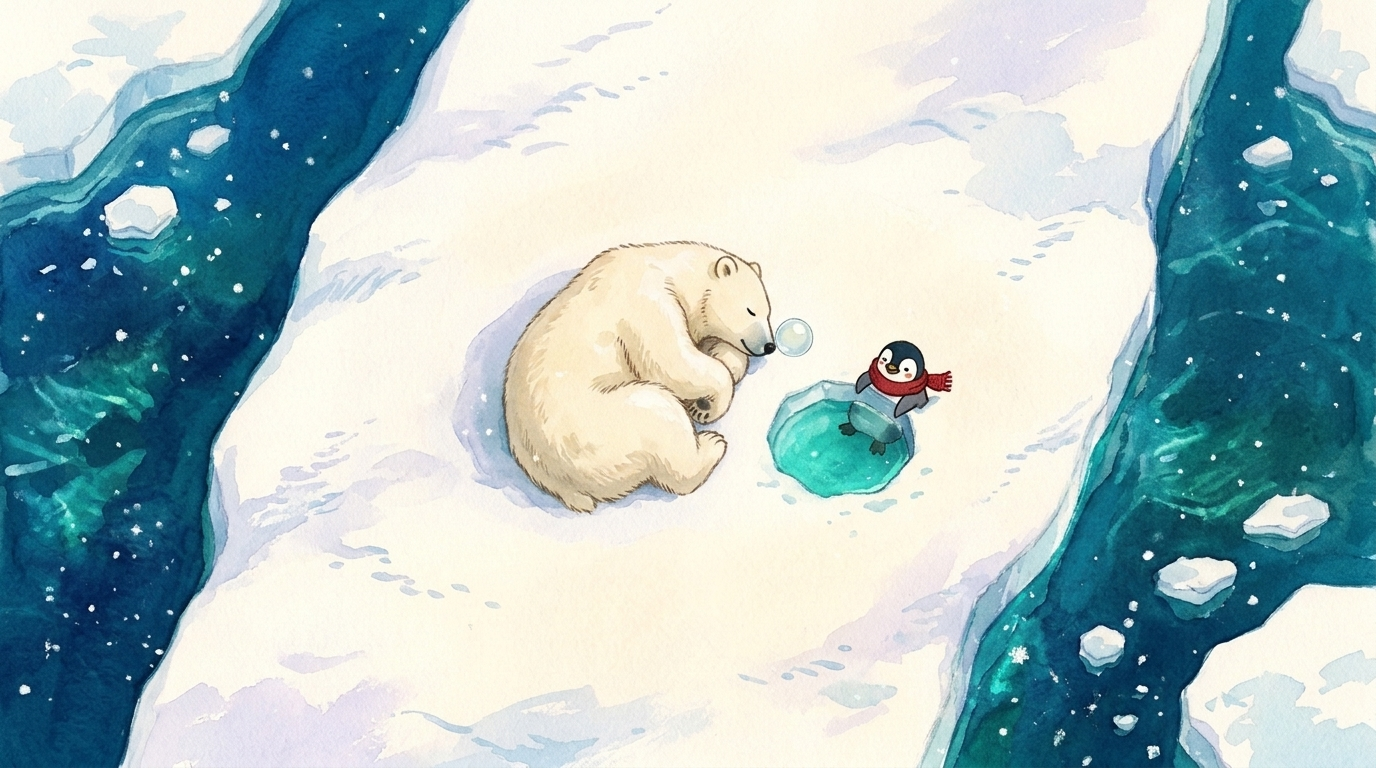
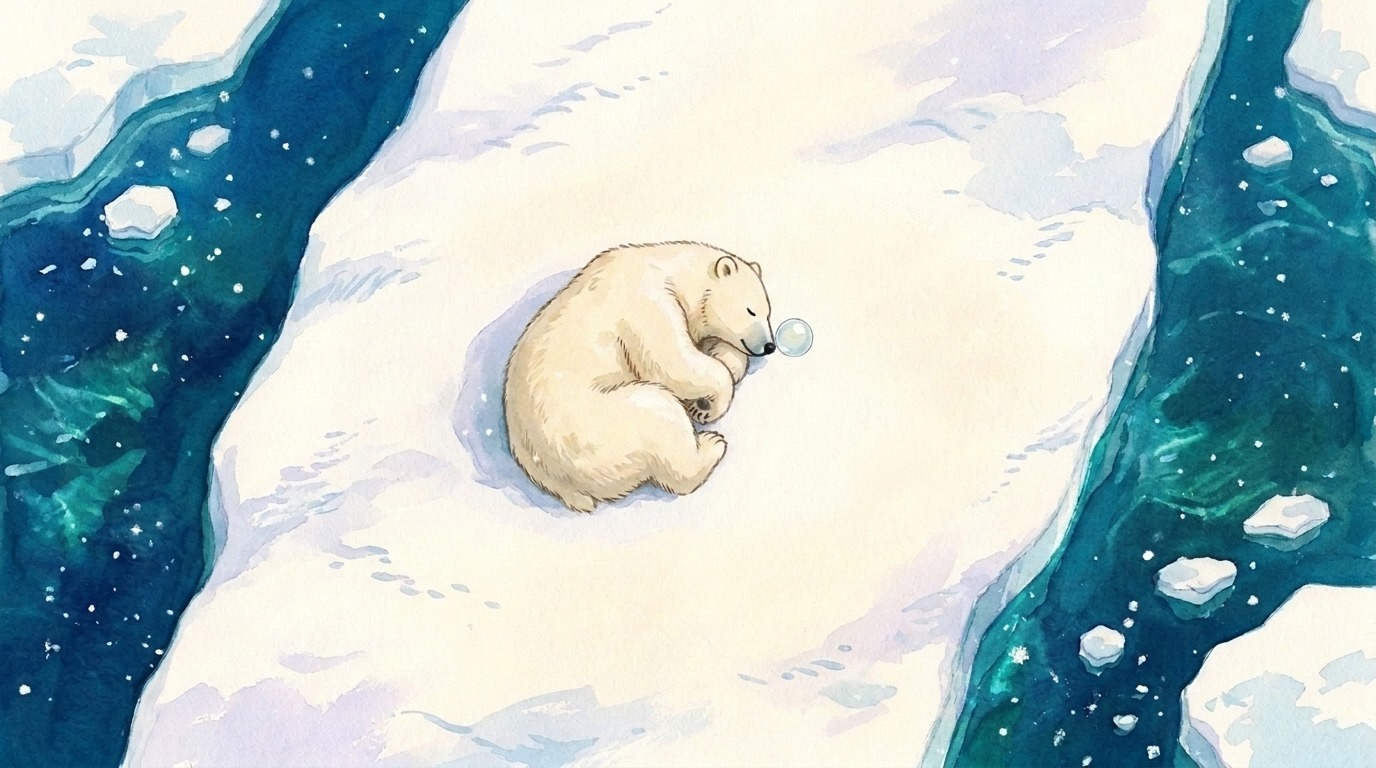
refactor(arctic): remove ice hole from shader and penguin/hole from thumbnail

Changed region(s): [[0.5312, 0.4375, 0.6875, 0.6875]]

diff --git a/web/themes/arctic/arctic-shader.js b/web/themes/arctic/arctic-shader.js
@@ -23,7 +23,6 @@ uniform sampler2D uFB;
 uniform sampler2D uNoise;
 uniform sampler2D uActorsTex;
 uniform sampler2D uActorsShadowTex;
-uniform sampler2D uMoonTex;
 uniform sampler2D uWaterTex;
 uniform sampler2D uSnowTex;
 uniform sampler2D uFloesTex;
@@ -41,10 +40,7 @@ uniform float uEdge;         // shoreline ice-edge roughness
 uniform float uSeed;
 uniform float uSunset;       // 0..1 Polar Alpenglow sunset
 uniform float uNight;        // 0..1 Polar Aurora Night
-uniform float uMoonPhase;    // 0=New, 0.25=First Qtr, 0.5=Full, 0.75=Last Qtr
 
-uniform vec4 uHole;          // xy = ice hole center CSS px, zw = radii (rx, ry); z <= 0 hides hole
-uniform vec2 uHoleRipple;    // x = age since splash (sec), y = splash strength (0..1)
 uniform vec4 uActorsRect;    // xy = top-left CSS px, zw = size CSS px (z <= 0 disables)
 
 uniform vec4 uWindA[4];
@@ -68,8 +64,6 @@ const vec3 D_ICE_SH      = vec3(0.505, 0.658, 0.802);
 const vec3 D_SEA_DEEP    = vec3(0.018, 0.195, 0.305);
 const vec3 D_SEA_VIRID   = vec3(0.095, 0.545, 0.535);
 const vec3 D_SEA_AQUA    = vec3(0.325, 0.768, 0.725);
-const vec3 D_HOLE_WATER  = vec3(0.155, 0.718, 0.682);
-const vec3 D_HOLE_DEEP   = vec3(0.048, 0.415, 0.495);
 const vec3 D_INK         = vec3(0.105, 0.238, 0.335);
 
 // Polar Alpenglow Sunset watercolor grading tones
@@ -81,8 +75,6 @@ const vec3 S_ICE_SH      = vec3(0.345, 0.398, 0.562);
 const vec3 S_SEA_DEEP    = vec3(0.045, 0.088, 0.202);
 const vec3 S_SEA_VIRID   = vec3(0.265, 0.315, 0.468);
 const vec3 S_SEA_AQUA    = vec3(0.525, 0.455, 0.598);
-const vec3 S_HOLE_WATER  = vec3(0.315, 0.382, 0.528);
-const vec3 S_HOLE_DEEP   = vec3(0.118, 0.162, 0.298);
 const vec3 S_INK         = vec3(0.152, 0.145, 0.272);
 
 // Arctic Night watercolor grading tones
@@ -94,8 +86,6 @@ const vec3 N_ICE_SH      = vec3(0.125, 0.268, 0.392);
 const vec3 N_SEA_DEEP    = vec3(0.015, 0.046, 0.102);
 const vec3 N_SEA_VIRID   = vec3(0.065, 0.228, 0.305);
 const vec3 N_SEA_AQUA    = vec3(0.145, 0.465, 0.545);
-const vec3 N_HOLE_WATER  = vec3(0.068, 0.218, 0.298);
-const vec3 N_HOLE_DEEP   = vec3(0.022, 0.075, 0.145);
 const vec3 N_INK         = vec3(0.042, 0.095, 0.165);
 
 float hash2(vec2 p) {
@@ -234,34 +224,12 @@ vec3 evalBrittleIceCracks(vec2 pCss, float sSurf, float wallThickness, float gra
   // Keep the sleeping Polar Bear's resting snow bed completely smooth
   float bearCalm = 1.0;
   if (uActorsRect.z > 1.0) {
-    vec2 bearCenter = uActorsRect.xy + vec2(0.37, 0.56) * uActorsRect.zw;
-    float dBear = length((pCss - bearCenter) / max(1.0, uActorsRect.z * 0.25));
+    vec2 bearCenter = uActorsRect.xy + vec2(0.50, 0.54) * uActorsRect.zw;
+    float dBear = length((pCss - bearCenter) / max(1.0, uActorsRect.z * 0.28));
     bearCalm = smoothstep(0.68, 1.32, dBear);
   }
 
-  // 1. Two tiny, understated hand-inked brittle hairline ticks tucked into corners of the carved ice hole
-  if (uHole.z > 1.0 && sSurf > 0.0) {
-    vec2 hRel = pCss - uHole.xy;
-    float maxR = max(uHole.z, uHole.w);
-    if (dot(hRel, hRel) < (maxR * 1.65) * (maxR * 1.65)) {
-      // Micro wobble for authentic dip-pen paper feel
-      vec2 pw = pCss + (texN(pCss, 0.065).rg - 0.5) * 1.1;
-      for (int k = 0; k < 2; k++) {
-        float fk = float(k);
-        float a0 = mix(-2.25, 0.58, fk);
-        vec2 dir = vec2(cos(a0), sin(a0));
-        vec2 pStart = uHole.xy + dir * (uHole.zw * 0.96);
-        float len1 = maxR * mix(0.24, 0.20, fk);
-        float len2 = maxR * mix(0.20, 0.16, fk);
-        vec2 pMid = pStart + vec2(cos(a0 + 0.16), sin(a0 + 0.16)) * len1;
-        vec2 pEnd = pMid   + vec2(cos(a0 - 0.24), sin(a0 - 0.24)) * len2;
-        accumCrackSeg(pw, pStart, pMid, 0.0, 0.55, 0.92, 0.28, 0.58, 0.24, grain, bestInk, bestWash);
-        accumCrackSeg(pw, pMid,   pEnd, 0.55, 1.0, 0.92, 0.28, 0.58, 0.24, grain, bestInk, bestWash);
-      }
-    }
-  }
-
-  // 2. Sparse brittle polyline shoreline calving cracks (ONLY evaluated within shoreline band!)
+  // Sparse brittle polyline shoreline calving cracks (ONLY evaluated within shoreline band!)
   if (sSurf > -wallThickness - 4.0 && sSurf < 155.0 && bearCalm > 0.02) {
     // Subtle hand-drawn dip-pen micro-wobble on textured watercolor paper (never clinical CAD lines!)
     vec2 pw = pCss + (texN(pCss, 0.058).rg - 0.5) * 1.25;
@@ -615,32 +583,6 @@ float evalSnowfall(vec2 pCss, float windT, float density) {
   return clamp(snow, 0.0, 0.85);
 }
 
-// Crisp reflected lunar disc inside the dark aquamarine ice hole at night
-vec3 evalHoleMoon(vec2 localUv, float night, float phase) {
-  if (night < 0.04) return vec3(0.0);
-  vec2 mPos = vec2(-0.16, -0.14);
-  float mRad = 0.30;
-  vec2 d = (localUv - mPos) / mRad;
-  float r2 = dot(d, d);
-  if (r2 > 1.8) return vec3(0.0);
-
-  float disc = 1.0 - smoothstep(0.92, 1.04, sqrt(r2));
-  float halo = exp(-r2 * 1.45) * 0.22;
-
-  float ang = (phase - 0.5) * TAU;
-  vec3 sunDir = normalize(vec3(sin(ang), 0.14, cos(ang)));
-  float nz = sqrt(max(0.0, 1.0 - min(r2, 1.0)));
-  vec3 nrm = normalize(vec3(d.x, -d.y, nz));
-  float lit = smoothstep(-0.08, 0.22, dot(nrm, sunDir));
-
-  vec2 texUv = d * 0.5 + 0.5;
-  float crater = texture(uMoonTex, clamp(texUv, 0.02, 0.98)).r;
-  vec3 moonCol = mix(vec3(0.84, 0.91, 0.98), vec3(1.0, 0.985, 0.93), 0.55) * (0.76 + 0.30 * crater);
-  vec3 glowCol = vec3(0.55, 0.76, 0.96);
-
-  return (moonCol * disc * (0.08 + 0.92 * lit) + glowCol * halo * (0.35 + 0.65 * lit)) * night;
-}
-
 void main() {
   vec2 pCss = vec2(gl_FragCoord.x, uRes.y - gl_FragCoord.y) / max(0.5, uDpr);
 
@@ -653,8 +595,6 @@ void main() {
   vec3 seaDeep   = mix(mix(D_SEA_DEEP,   S_SEA_DEEP,   uSunset), N_SEA_DEEP,   uNight);
   vec3 seaVirid  = mix(mix(D_SEA_VIRID,  S_SEA_VIRID,  uSunset), N_SEA_VIRID,  uNight);
   vec3 seaAqua   = mix(mix(D_SEA_AQUA,   S_SEA_AQUA,   uSunset), N_SEA_AQUA,   uNight);
-  vec3 holeWater = mix(mix(D_HOLE_WATER, S_HOLE_WATER, uSunset), N_HOLE_WATER, uNight);
-  vec3 holeDeep  = mix(mix(D_HOLE_DEEP,  S_HOLE_DEEP,  uSunset), N_HOLE_DEEP,  uNight);
   vec3 inkCol    = mix(mix(D_INK,        S_INK,        uSunset), N_INK,        uNight);
 
   // Organic multi-scale noise for jagged fractured ice shoreline & fine cold-press paper unity
@@ -838,65 +778,7 @@ void main() {
   col = mix(col, snowCol, snowMask);
   col = mix(col, inkCol, clamp(topInkLine * 0.52 + baseInkLine * 0.58, 0.0, 0.76));
 
-  // ---- 4. Hand-Painted Faceted Aquamarine Ice Hole (Penguin's Playground!) ----
-  if (uHole.z > 1.0 && sSurf > -4.0) {
-    vec2 hRel = pCss - uHole.xy;
-    vec2 hNorm = hRel / max(vec2(1.0), uHole.zw);
-    float hAng = atan(hNorm.y, hNorm.x);
-    float facet = 0.068 * cos(hAng * 5.0 + 0.6) + 0.042 * sin(hAng * 3.0 - 1.1)
-                + 0.024 * cos(hAng * 7.0 + uSeed) + (nBrush.r - 0.5) * 0.032;
-    float hDist = length(hNorm) + facet;
-
-    // Soft matte periwinkle watercolor collar shadow around the carved ice rim
-    float outerLip = smoothstep(1.36, 1.05, hDist) * smoothstep(0.96, 1.04, hDist);
-    float lipLight = dot(normalize(hNorm + vec2(1e-4)), LIGHT);
-    vec3 lipCol = mix(snowSh * 0.95, snowHi, 0.5 + 0.5 * lipLight);
-    col = mix(col, lipCol, outerLip * 0.60 * snowMask);
-
-    if (hDist < 1.08) {
-      float holeMask = 1.0 - smoothstep(0.98, 1.04, hDist);
-      vec2 innerNorm = (hRel - LIGHT * 6.5) / max(vec2(1.0), uHole.zw * 0.87);
-      float innerDist = length(innerNorm) + facet;
-      float waterMask = 1.0 - smoothstep(0.90, 0.99, innerDist);
-
-      // Real hand-painted watercolor water inside the ice hole, brightened to jewel aquamarine!
-      vec3 hFluid = evalOrganicFluid(hRel * 1.65, uTime * 1.05);
-      vec2 hUv = (hRel + hFluid.xy * 9.0 + vec2(uTime * 5.0, -uTime * 3.5)) / 320.0;
-      vec3 hPainted = texture(uWaterTex, hUv).rgb;
-      float hTone = clamp(hPainted.g * 1.45, 0.0, 1.0);
-      vec3 hw = mix(holeDeep, holeWater, smoothstep(0.05, 0.85, innerDist) * 0.58 + hTone * 0.45);
-      hw = mix(hw, mix(holeWater, snowHi, 0.34), smoothstep(0.72, 0.98, innerDist) * 0.44);
-      hw += auroraCol * 0.56;
-      hw += evalHoleMoon(innerNorm + hFluid.xy * 0.03, uNight, uMoonPhase);
-
-      // Gentle matte watercolor idle ripples + penguin splash rings
-      float idleWave = sin(innerDist * 16.0 - uTime * 2.1 + hFluid.z * 1.4) * 0.5 + 0.5;
-      float rippleRing = idleWave * 0.048 * (1.0 - innerDist * 0.45);
-      if (uHoleRipple.y > 0.01 && uHoleRipple.x >= 0.0 && uHoleRipple.x < 2.2) {
-        float rAge = uHoleRipple.x;
-        float rEnv = exp(-rAge * 1.95) * uHoleRipple.y;
-        float rad1 = rAge * 0.96;
-        float rad2 = max(0.0, (rAge - 0.18) * 0.92);
-        float ring1 = exp(-pow((innerDist - rad1) * 14.0, 2.0));
-        float ring2 = exp(-pow((innerDist - rad2) * 16.0, 2.0)) * 0.65;
-        rippleRing += (ring1 + ring2) * rEnv * 0.72;
-      }
-      hw = mix(hw, mix(vec3(0.86, 0.97, 0.96), vec3(0.98, 0.86, 0.88), uSunset), clamp(rippleRing, 0.0, 0.78));
-      hw *= 1.0 + paperTooth * 0.045;
-
-      // Stepped matte faceted beveled ice wall inside the hole
-      float bevelFacet = 1.0 - smoothstep(0.0, 0.11, abs(sin(hAng * 2.5 + 0.3)));
-      vec3 bevelCol = mix(iceWall * 1.04, iceSh * 1.02, 0.5 + 0.5 * lipLight) * (1.0 + paperTooth * 0.04);
-      bevelCol = mix(bevelCol, inkCol, bevelFacet * 0.28);
-      vec3 holeInterior = mix(bevelCol, hw, waterMask);
-
-      float rimInk = (1.0 - smoothstep(0.0, 0.048, abs(hDist - 0.99))) * (0.65 + 0.35 * nBrush.g);
-      col = mix(col, holeInterior, holeMask * snowMask);
-      col = mix(col, inkCol, rimInk * 0.58 * snowMask);
-    }
-  }
-
-  // ---- 5. Hand-Painted Studio Ghibli Sleeping Polar Bear & Red-Scarf Penguin ----
+  // ---- 4. Hand-Painted Studio Ghibli Sleeping Polar Bear ----
   if (uActorsRect.z > 1.0) {
     vec2 aUv = (pCss - uActorsRect.xy) / uActorsRect.zw;
     if (aUv.x >= 0.0 && aUv.x <= 1.0 && aUv.y >= 0.0 && aUv.y <= 1.0) {

diff --git a/web/themes/arctic/arctic-scene.js b/web/themes/arctic/arctic-scene.js
@@ -17,9 +17,8 @@ import {
   createPerfGovernor
 } from '../../core/field-engine.js';
 import { createHostBridge } from '../../core/host-bridge.js';
-import { resolveMoonConfig, createMoonSurfaceLoader } from '../../core/moon-phase.js';
 import { ARCTIC_FS } from './arctic-shader.js';
-import { createArcticActorsController, BEAR_NORM, HOLE_NORM } from './arctic-actors.js';
+import { createArcticActorsController, BEAR_NORM } from './arctic-actors.js';
 import { createWindRibbonSystem } from './arctic-wind.js';
 
 const DEFAULTS = {
@@ -74,7 +73,6 @@ function bindArcticUniforms(program) {
     uNoise: gl.getUniformLocation(program, 'uNoise'),
     uActorsTex: gl.getUniformLocation(program, 'uActorsTex'),
     uActorsShadowTex: gl.getUniformLocation(program, 'uActorsShadowTex'),
-    uMoonTex: gl.getUniformLocation(program, 'uMoonTex'),
     uWaterTex: gl.getUniformLocation(program, 'uWaterTex'),
     uSnowTex: gl.getUniformLocation(program, 'uSnowTex'),
     uFloesTex: gl.getUniformLocation(program, 'uFloesTex'),
@@ -91,9 +89,6 @@ function bindArcticUniforms(program) {
     uSeed: gl.getUniformLocation(program, 'uSeed'),
     uSunset: gl.getUniformLocation(program, 'uSunset'),
     uNight: gl.getUniformLocation(program, 'uNight'),
-    uMoonPhase: gl.getUniformLocation(program, 'uMoonPhase'),
-    uHole: gl.getUniformLocation(program, 'uHole'),
-    uHoleRipple: gl.getUniformLocation(program, 'uHoleRipple'),
     uActorsRect: gl.getUniformLocation(program, 'uActorsRect'),
     uWindA: gl.getUniformLocation(program, 'uWindA'),
     uWindB: gl.getUniformLocation(program, 'uWindB'),
@@ -160,16 +155,11 @@ const SCENE_SEED = 41.7;
 
 let simTime = 0, flowTime = 0, lastRaf = 0, lastDraw = 0;
 let sunsetMix = 0, nightMix = 0, moodInitialized = false;
-let moonCfg = { mode: 'full', date: '2000-08-15' };
-let moonPhase = 0.5;
 
 const actors = createArcticActorsController(gl, () => {
   if (paused) renderFrame(simTime, true);
 });
 const windRibbons = createWindRibbonSystem();
-const moonSurface = createMoonSurfaceLoader(gl, () => {
-  if (paused) renderFrame(simTime, false);
-});
 
 const onPaintReady = () => {
   if (paused) renderFrame(simTime, false);
@@ -183,8 +173,8 @@ function sampleSdfB(px, py) {
 }
 
 /**
- * Finds the widest, coziest open snow clearing on the ice shelf where BOTH the sleeping
- * Polar Bear AND the Penguin's ice hole sit cleanly on open snow away from desktop icons.
+ * Finds the widest, coziest open snow clearing on the ice shelf where the sleeping
+ * Polar Bear rests cleanly away from desktop icons.
  */
 function relocateComedyStage(snap = false) {
   if (!sdfB) return;
@@ -197,14 +187,12 @@ function relocateComedyStage(snap = false) {
     const top  = cy - size * 0.5;
     const bearX = left + BEAR_NORM.x * size;
     const bearY = top  + BEAR_NORM.y * size;
-    const holeX = left + HOLE_NORM.x * size;
-    const holeY = top  + HOLE_NORM.y * size;
     return Math.min(
-      sampleSdfB(cx, cy),
       sampleSdfB(bearX, bearY),
-      sampleSdfB(bearX - size * 0.12, bearY),
-      sampleSdfB(holeX, holeY),
-      sampleSdfB(holeX + size * 0.11, holeY)
+      sampleSdfB(bearX - size * 0.16, bearY),
+      sampleSdfB(bearX + size * 0.18, bearY),
+      sampleSdfB(bearX, bearY - size * 0.16),
+      sampleSdfB(bearX, bearY + size * 0.16)
     );
   };
 
@@ -357,20 +345,16 @@ function renderFrame(t, upload2d = true, forceSync = false) {
   gl.uniform1i(U.uActorsShadowTex, 4);
 
   gl.activeTexture(gl.TEXTURE5);
-  gl.bindTexture(gl.TEXTURE_2D, moonSurface.texture);
-  gl.uniform1i(U.uMoonTex, 5);
+  gl.bindTexture(gl.TEXTURE_2D, waterTex);
+  gl.uniform1i(U.uWaterTex, 5);
 
   gl.activeTexture(gl.TEXTURE6);
-  gl.bindTexture(gl.TEXTURE_2D, waterTex);
-  gl.uniform1i(U.uWaterTex, 6);
+  gl.bindTexture(gl.TEXTURE_2D, snowTex);
+  gl.uniform1i(U.uSnowTex, 6);
 
   gl.activeTexture(gl.TEXTURE7);
-  gl.bindTexture(gl.TEXTURE_2D, snowTex);
-  gl.uniform1i(U.uSnowTex, 7);
-
-  gl.activeTexture(gl.TEXTURE8);
   gl.bindTexture(gl.TEXTURE_2D, floesTex);
-  gl.uniform1i(U.uFloesTex, 8);
+  gl.uniform1i(U.uFloesTex, 7);
 
   gl.uniform2f(U.uRes, glCanvas.width, glCanvas.height);
   gl.uniform2f(U.uGrid, field.gw, field.gh);
@@ -385,15 +369,9 @@ function renderFrame(t, upload2d = true, forceSync = false) {
   gl.uniform1f(U.uSeed, SCENE_SEED);
   gl.uniform1f(U.uSunset, sunsetMix);
   gl.uniform1f(U.uNight, nightMix);
-  gl.uniform1f(U.uMoonPhase, moonPhase);
 
   const show = P.showFriends >= 0.5;
-  const hole = actors.getHoleCss();
-  const rip = actors.getRipple();
   const rect = actors.getActorsRectCss();
-
-  gl.uniform4f(U.uHole, hole[0], hole[1], show ? hole[2] : 0, show ? hole[3] : 0);
-  gl.uniform2f(U.uHoleRipple, rip[0], rip[1]);
   gl.uniform4f(U.uActorsRect, rect[0], rect[1], show ? rect[2] : 0, show ? rect[3] : 0);
 
   gl.uniform4fv(U.uWindA, windRibbons.bufA);
@@ -494,11 +472,7 @@ const bridge = createHostBridge({
       needsInitialSettle = true;
     }
   },
-  onMoon(cfg) {
-    moonCfg = cfg;
-    moonPhase = resolveMoonConfig(moonCfg).phase;
-    if (paused) renderFrame(simTime, false);
-  },
+  onMoon() {},
   onMouse(nx, ny) {
     actors.setMouse(nx, ny);
   },

diff --git a/web/themes/arctic/arctic-actors.js b/web/themes/arctic/arctic-actors.js
@@ -34,8 +34,8 @@ import {
 
 const TEX_SIZE = 560;
 
-export const BEAR_NORM = { x: 0.37, y: 0.56 };
-export const HOLE_NORM = { x: 0.74, y: 0.57, rx: 0.142, ry: 0.106 };
+export const BEAR_NORM = { x: 0.50, y: 0.54 };
+export const HOLE_NORM = { x: 0.74, y: 0.57, rx: 0, ry: 0 };
 
 const BEAR_REF = 512;
 const BEAR_PIVOT_Y = 180 / 192;

diff --git a/web/settings/settings-copy.js b/web/settings/settings-copy.js
@@ -194,7 +194,7 @@ export const COPY = {
 };
 
 export const THEME_THUMBS = {
-  arctic: './assets/thumb-arctic.jpg',
+  arctic: './assets/thumb-arctic.jpg?v=bear2',
   skyship: './assets/thumb-skyship.jpg',
   seatrain: './assets/thumb-seatrain.jpg'
 };
